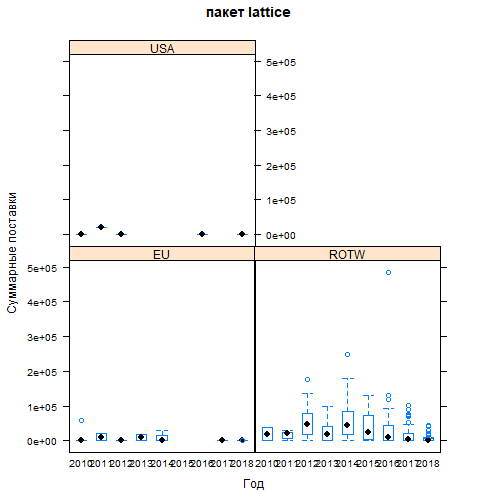
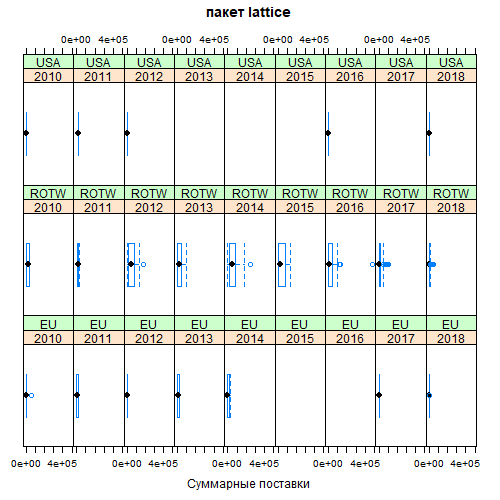
Add files via upload

diff --git a/semin2.html b/semin2.html
@@ -466,66 +466,42 @@ DT.import &lt;- full_join(DT.import1, DT.import2)</code></pre>
 res &lt;- select(DT.import, Netweight.kg.median, country_factor,Year) %&gt;%
   group_by(country_factor, Year)
 res1 &lt;- na.omit(res)
+res1 &lt;- data.table(res1)
 
 #фактор по 3 группам стран
-years &lt;- as.factor(unique(res1$country_factor))</code></pre>
+years &lt;- as.factor(unique(res1$country_factor))
+#нужна палитра из 3 цветов
+cls &lt;- palette(rainbow(3))</code></pre>
 </div>
 <div id="-base" class="section level1">
 <h1>Пакет base</h1>
-<p>Этот пакет обладает малым набором возможностей, так, например, не удалось изобразить коробчатые диаграммы на 1 графике, т.к. присоединение “|” не предусмотрено. Пришлось строить 3 различных диаграммы с параметрами c(2,2).</p>
+<p>Этот пакет обладает малым набором возможностей.</p>
 <pre class="r"><code># Пакет &quot;base&quot; ----
-
-#нужна палитра из 3 цветов
-cls &lt;- palette(rainbow(3))
 
 # КОРОБЧАТАЯ ДИАГРАММА
 # ящики с усами по месяцам
 png('Pic-01.png', width = 500, height = 500)
-par(mfrow=c(2,2))
-boxplot(DT.import1$Netweight.kg.median ~ as.factor(DT.import1$Year), data=DT.import1,
-        xlab = 'Год',
+boxplot(res1$Netweight.kg.median ~ as.factor(res1$country_factor) * as.factor(res1$Year),
+        xlab = 'Год и группа стран',
         ylab = 'Суммарные поставки',
-        main = 'пакет base USA',
-        col = cls[3]
-        
+        main = 'пакет base'
         )
 
-boxplot(DT.import2$Netweight.kg.median ~ as.factor(DT.import2$Year), data=DT.import2,
-        xlab = 'Год',
-        ylab = 'Суммарные поставки',
-        main = 'пакет base EU',
-        col = cls[1]
-        )
-
-boxplot(DT.import3$Netweight.kg.median ~ as.factor(DT.import3$Year), data=DT.import3,
-        xlab = 'Год',
-        ylab = 'Суммарные поставки',
-        main = 'пакет base ROTW',
-        col = cls[2]
-        )
 dev.off()</code></pre>
 <pre><code>## png 
 ##   2</code></pre>
 </div>
 <div id="-lattice" class="section level1">
 <h1>Пакет lattice</h1>
-<p>Здесь дела лучше, чем в предудыщем случае. Здесь разрешено использовать условия, но цветом выделить нужное возможности нет.</p>
+<p>Здесь дела лучше, чем в предудыщем случае.</p>
 <pre class="r"><code># Пакет &quot;lattice&quot; ----
 # КОРОБКИ ПО ГРУППАМ
 png('Pic-02.png', width = 500, height = 500)
-bwplot(res1$Netweight.kg.median ~ as.factor(res1$Year) | res1$country_factor, data=res1,
-       xlab = 'Год',
-       ylab = 'Суммарные поставки',
+bwplot( ~ Netweight.kg.median | as.factor(Year) * as.factor(country_factor), data = res1,
+       xlab = 'Суммарные поставки',
        main = 'пакет lattice'
-       
        )
-
-'par.settings = list(box.umbrella = list(col = cls[as.factor(res1$country_factor)]), 
-                            box.dot = list(col = cls[as.factor(res1$country_factor)]), 
-                            box.rectangle = list(col = cls[as.factor(res1$country_factor)]) 
-       )'</code></pre>
-<pre><code>## [1] &quot;par.settings = list(box.umbrella = list(col = cls[as.factor(res1$country_factor)]), \n                            box.dot = list(col = cls[as.factor(res1$country_factor)]), \n                            box.rectangle = list(col = cls[as.factor(res1$country_factor)]) \n       )&quot;</code></pre>
-<pre class="r"><code>dev.off()</code></pre>
+dev.off()</code></pre>
 <pre><code>## png 
 ##   2</code></pre>
 </div>
@@ -536,10 +512,12 @@ bwplot(res1$Netweight.kg.median ~ as.factor(res1$Year) | res1$country_factor, da
 
 # КОРОБКИ ПО ГРУППАМ (ЦВЕТ + ОСЬ)
 # всё, что зависит от значений данных, заносим в аргумент aes
+res1[, Группы_стран := factor(country_factor, levels = c('USA', 'EU', 'ROTW'),
+                                labels = c('США', 'Страны ЕС', 'Остальные страны'))]
 png('Pic-03.png', width = 500, height = 500)
 gp &lt;- ggplot(data = res1, aes(x = as.factor(res1$Year),
-                                y = res1$Netweight.kg.median,
-                                color = res1$country_factor)
+                                y = Netweight.kg.median,
+                                color = Группы_стран)
              
              )
 gp &lt;- gp + geom_boxplot()
